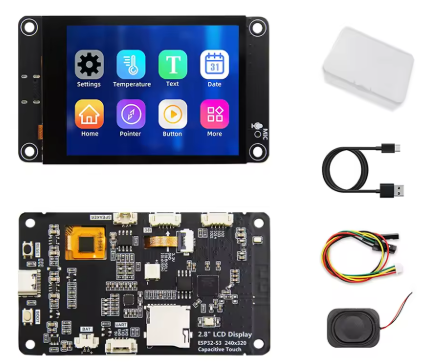
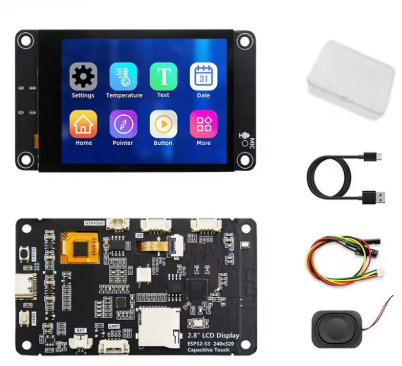
교탁 도우미: 보드 사진 교체, 뒷면 단자 설명 추가 (#7)
- board-kit.png: 워터마크 없는 제품 구성 사진으로 교체
- board-interface.png: 뒷면 단자·버튼 안내 그림 추가 (누르면 크게)
- "보드 살펴보기" 표: 단자마다 하는 일과 교탁 도우미에서 쓰는지
  (TYPE-C·스피커·마이크 씀, 배터리·DS3231 선택, BOOT 안 씀 등)

Claude-Session: https://claude.ai/code/session_012chGshqJiWyFcSDs7KTnZp

diff --git a/maker/classhelper/index.html b/maker/classhelper/index.html
@@ -95,7 +95,8 @@ table.fit { min-width: 0; } table.fit td:first-child { white-space: nowrap; }
 .buy img { display: block; width: 100%; height: auto; margin: 0 auto 4px; }
 .buy figcaption { font-size: 13px; color: #546170; }
 .buy p { margin-top: 0; }
-@media (max-width: 720px) { .buy { grid-template-columns: minmax(0, 1fr); } }
+.buy.wide { grid-template-columns: minmax(0, 450px) 1fr; }
+@media (max-width: 720px) { .buy, .buy.wide { grid-template-columns: minmax(0, 1fr); } }
 
 /* 기기 카드 */
 .devices { display: grid; grid-template-columns: repeat(2, minmax(0, 1fr)); gap: 12px; margin: 10px 0; }
@@ -205,7 +206,7 @@ footer { color: var(--muted); font-size: 14px; padding: 10px 0 40px; }
       <h2><span class="n">1</span>준비물</h2>
       <h3 style="border-top:0;margin-top:4px;padding-top:0">보드 살 때 참고</h3>
       <div class="buy">
-        <figure><img src="images/board-kit.png" alt="ES3C28P 제품 구성: 2.8인치 터치 보드 앞면(아이콘이 뜬 화면)과 뒷면, 흰색 플라스틱 상자, USB-C 케이블, 색깔 연결선, 작은 스피커" width="426" height="362" loading="lazy"><figcaption>ES3C28P 제품 구성 (판매 페이지 사진)</figcaption></figure>
+        <figure><img src="images/board-kit.png" alt="ES3C28P 제품 구성: 2.8인치 터치 보드 앞면(아이콘이 뜬 화면)과 뒷면, 흰색 플라스틱 상자, USB-C 케이블, 색깔 연결선, 작은 스피커" width="402" height="366" loading="lazy"><figcaption>ES3C28P 제품 구성</figcaption></figure>
         <div>
           <p>쇼핑몰에서 <b>"ES3C28P"</b> 또는 <b>"2.8인치 ESP32-S3 IPS 터치 LCD"</b>로 찾으세요.</p>
           <ul>
@@ -217,6 +218,31 @@ footer { color: var(--muted); font-size: 14px; padding: 10px 0 40px; }
           </ul>
         </div>
       </div>
+      <h3 id="board">보드 살펴보기 (뒷면)</h3>
+      <div class="buy wide">
+        <figure><a href="images/board-interface.png" target="_blank" rel="noopener"><img src="images/board-interface.png" alt="ES3C28P 뒷면 단자 안내: 왼쪽에 RESET 버튼, TYPE-C 단자, BOOT 버튼, 아래쪽에 배터리 단자와 시리얼 포트, 위쪽에 스피커 단자·RGB LED·I2C 단자·확장 핀, 오른쪽 위에 마이크, 가운데 ESP32-S3 칩, 오른쪽 아래 MicroSD 카드 슬롯" width="434" height="416" loading="lazy"></a><figcaption>ES3C28P 뒷면의 단자와 버튼 · 누르면 크게 봐요</figcaption></figure>
+        <div>
+          <p>보드를 뒤집으면 단자와 버튼이 이렇게 있어요. 교탁 도우미에서 <b>꼭 쓰는 것은 TYPE-C, 스피커 단자, 마이크</b>이고, 배터리 단자는 배터리를 넣을 때 씁니다.</p>
+          <p class="warn-note" style="margin:8px 0 0"><b>BOOT 버튼</b>은 이 코드에서 쓰지 않아요. 케이스에 넣을 때 눌리지 않게만 해 주세요. 눌린 채로 켜지면 화면이 켜지지 않습니다.</p>
+        </div>
+      </div>
+      <div class="tbl"><table>
+        <thead><tr><th>이름 (그림의 영어)</th><th>하는 일</th><th>교탁 도우미에서</th></tr></thead>
+        <tbody>
+          <tr><td><b>TYPE-C 단자</b><br>TYPE-C Interface</td><td>전원, 배터리 충전, PC와 연결해 프로그램 올리기</td><td>✅ 씀 — 데이터용 케이블로 PC에 꽂아 업로드, 평소엔 충전선</td></tr>
+          <tr><td><b>스피커 단자</b><br>Speaker Interface</td><td>함께 온 작은 스피커를 꽂는 2핀 단자 (오디오 칩 ES8311 + 앰프)</td><td>✅ 씀 — 효과음, 소음 경고음, 타이머 알림</td></tr>
+          <tr><td><b>마이크</b><br>Microphone</td><td>보드에 붙어 있는 작은 마이크</td><td>✅ 씀 — 소음 신호등이 교실 소리를 잼. 케이스로 막지 마세요</td></tr>
+          <tr><td><b>배터리 단자</b><br>Battery Interface (BAT)</td><td>3.7V 리튬 배터리를 꽂는 2핀 단자. USB-C를 꽂으면 충전돼요</td><td>⭕ 선택 — <a href="#battery">803035 3.7V 800mAh, JST PH1.25mm</a>. 화면의 배터리 % 표시</td></tr>
+          <tr><td><b>RESET 버튼</b><br>RESET Button</td><td>보드를 다시 시작</td><td>⭕ 업로드 후 화면이 안 바뀌거나 멈췄을 때 한 번 누르기</td></tr>
+          <tr><td><b>BOOT 버튼</b><br>BOOT Button</td><td>누른 채 켜면 '프로그램 올리기 대기'로 들어감</td><td>⛔ 안 씀 — 업로드가 안 될 때만 <a href="#trouble">문제 해결</a>대로 사용</td></tr>
+          <tr><td><b>RGB LED</b><br>RGB LED Light</td><td>색이 바뀌는 작은 불빛</td><td>✅ 지뢰찾기에서 깃발·터짐·성공 때 반짝여요</td></tr>
+          <tr><td><b>I2C 단자</b><br>I2C Peripheral Interface</td><td>센서·모듈을 꽂는 단자 (터치·오디오 칩과 같은 선을 나눠 씀)</td><td>⭕ 선택 — 시계 모듈 DS3231을 꽂으면 저절로 찾아 씀</td></tr>
+          <tr><td><b>ESP32-S3 칩</b><br>ESP32-S3 Chip</td><td>보드의 두뇌. 와이파이·블루투스, 플래시 16MB, PSRAM 8MB</td><td>✅ 블루투스(프레젠터), 와이파이(시간·날씨)</td></tr>
+          <tr><td><b>MicroSD 슬롯</b><br>MicroSD Card Slot</td><td>메모리 카드를 꽂는 곳</td><td>— 안 씀</td></tr>
+          <tr><td><b>시리얼 포트</b><br>Serial port (UART)</td><td>다른 기기와 글자를 주고받는 단자</td><td>— 안 씀 (업로드·시리얼 모니터는 TYPE-C로 해요)</td></tr>
+          <tr><td><b>확장 핀</b><br>Extended Pin</td><td>남는 입출력 핀을 꺼내 쓰는 단자</td><td>— 안 씀 (버튼·센서를 더 달 때 바이브코딩으로)</td></tr>
+        </tbody>
+      </table></div>
       <h3>전체 준비물</h3>
       <div class="tbl"><table>
         <thead><tr><th>품목</th><th>설명</th><th>꼭?</th></tr></thead>
